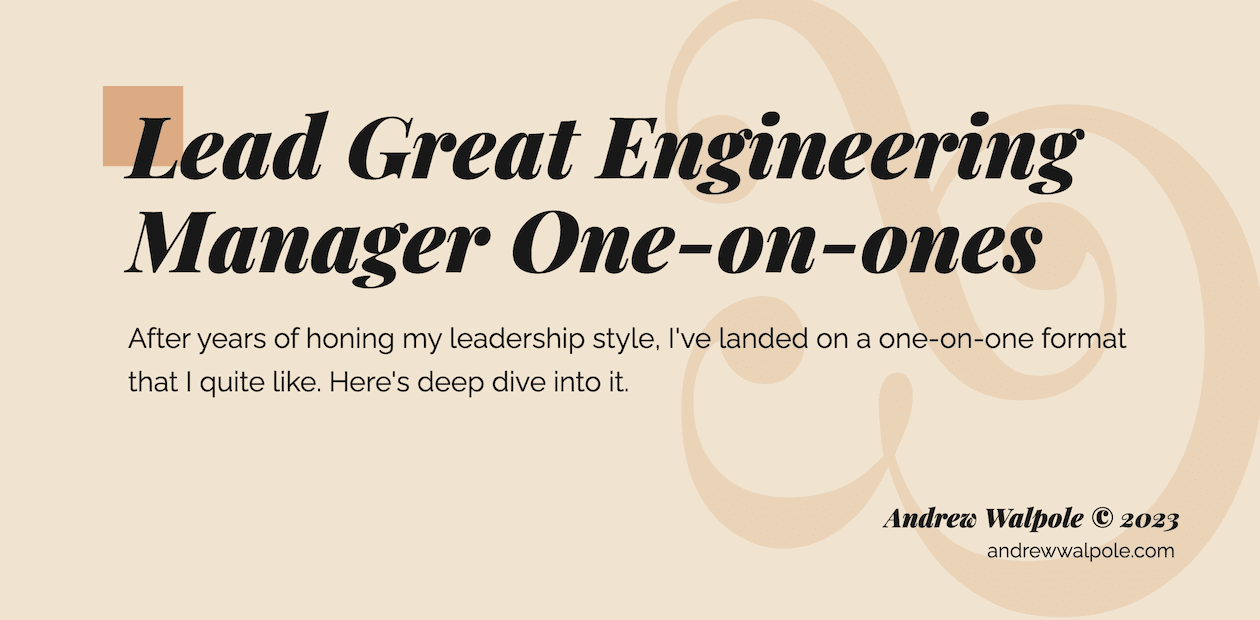
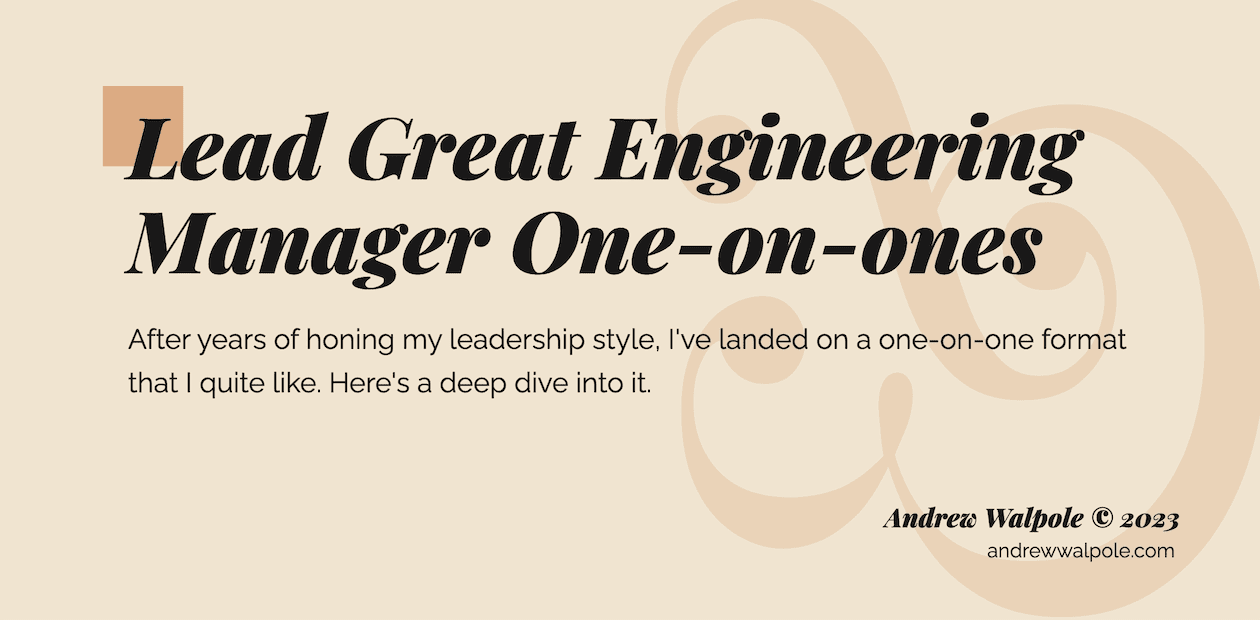
update blurb

diff --git a/src/content/blog/2023-02-13-my-engineering-manager-one-on-one-format.md b/src/content/blog/2023-02-13-my-engineering-manager-one-on-one-format.md
@@ -6,7 +6,7 @@ tags:
   - leadership
 title: Lead Great Engineering Manager One-on-ones
 slug: lead-great-engineering-manager-one-on-ones
-summary: After years of honing my leadership style, I've landed on a one-on-one format that I quite like. Here's deep dive into it.
+summary: After years of honing my leadership style, I've landed on a one-on-one format that I quite like. Here's a deep dive into it.
 date: 2023-02-13 12:00:00
 blogcast: "https://pub-40fccf9e493a4d029eb2b8955f358ac3.r2.dev/lead-great-engineering-manager-one-on-ones.mp3"
 ---
